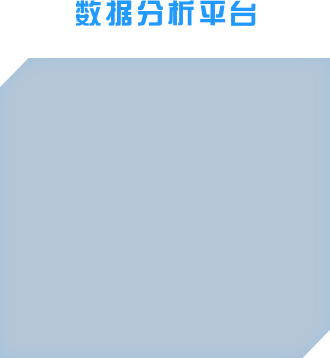
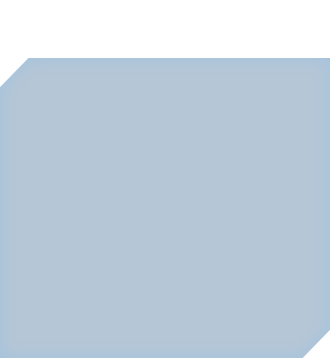
feat login page and remove useless picture

Changed region(s): [[0.2121, 0.0, 0.7879, 0.0922]]

diff --git a/src/views/Login.vue b/src/views/Login.vue
@@ -1,12 +1,56 @@
 <template>
-  <div class="login-wrap">
+  <div class="login">
+    <main class="num_rain"></main>
+    <!-- <div class="login-wrap">
+      <div class="ms-login">
+        <el-form
+          class="ms-content"
+          ref="ruleForm"
+          label-width="0px"
+          :model="ruleForm"
+          :rules="rules"
+        >
+          <div class="inputBox">
+            <img src="@/assets/img/login_account_icon.png" alt />
+            <el-form-item prop="username">
+              <div class="custom-input el-input el-input--small">
+                <input
+                  type="text"
+                  autocomplete="off"
+                  v-model="ruleForm.username"
+                  placeholder="请输入用户名"
+                  class="el-input__inner"
+                />
+              </div>
+            </el-form-item>
+          </div>
+          <div class="inputBox">
+            <img src="../assets/img/login_psd_icon.png" alt />
+            <el-form-item prop="password">
+              <div class="custom-input el-input el-input--small">
+                <input
+                  type="password"
+                  autocomplete="off"
+                  v-model="ruleForm.password"
+                  placeholder="请输入密码"
+                  class="el-input__inner"
+                  @keyup.enter="submitForm('ruleForm')"
+                />
+              </div>
+            </el-form-item>
+          </div>
+
+          <div class="login-btn">
+            <span @click="submitForm('ruleForm')">登录</span>
+          </div>
+        </el-form>
+      </div>
+    </div>-->
     <div class="ms-login">
-      <!-- <div class="ms-title">后台管理系统</div> -->
       <el-form class="ms-content" ref="ruleForm" label-width="0px" :model="ruleForm" :rules="rules">
         <div class="inputBox">
           <img src="@/assets/img/login_account_icon.png" alt />
           <el-form-item prop="username">
-            <!-- <el-input class="custom-input" v-model="ruleForm.username" placeholder="username" autocomplete="off"></el-input> -->
             <div class="custom-input el-input el-input--small">
               <input
                 type="text"
@@ -21,7 +65,6 @@
         <div class="inputBox">
           <img src="../assets/img/login_psd_icon.png" alt />
           <el-form-item prop="password">
-            <!-- <el-input class="custom-input" v-model="ruleForm.username" placeholder="username" autocomplete="off"></el-input> -->
             <div class="custom-input el-input el-input--small">
               <input
                 type="password"
@@ -34,15 +77,9 @@
             </div>
           </el-form-item>
         </div>
-        <!-- <el-input
-            type="password"
-            placeholder="password"
-            v-model="ruleForm.password"
-            @keyup.enter.native="submitForm('ruleForm')"
-        ></el-input>-->
+
         <div class="login-btn">
           <span @click="submitForm('ruleForm')">登录</span>
-          <!-- <el-button type="primary" @click="submitForm('ruleForm')">登录</el-button> -->
         </div>
       </el-form>
     </div>
@@ -87,25 +124,145 @@ export default {
       });
     }
   },
-  mounted() {}
+  mounted() {
+    function r(from, to) {
+      return ~~(Math.random() * (to - from + 1) + from);
+    }
+    function pick() {
+      return arguments[r(0, arguments.length - 1)];
+    }
+    function getChar() {
+      return String.fromCharCode(
+        pick(r(0x3041, 0x30ff), r(0x2000, 0x206f), r(0x0020, 0x003f))
+      );
+    }
+    function loop(fn, delay) {
+      let stamp = Date.now();
+      function _loop() {
+        if (Date.now() - stamp >= delay) {
+          fn();
+          stamp = Date.now();
+        }
+        requestAnimationFrame(_loop);
+      }
+      requestAnimationFrame(_loop);
+    }
+    class Char {
+      constructor() {
+        this.element = document.createElement("span");
+        this.mutate();
+      }
+      mutate() {
+        this.element.textContent = getChar();
+      }
+    }
+    class Trail {
+      constructor(list = [], options) {
+        this.list = list;
+        this.options = Object.assign({ size: 10, offset: 0 }, options);
+        this.body = [];
+        this.move();
+      }
+      traverse(fn) {
+        this.body.forEach((n, i) => {
+          let last = i == this.body.length - 1;
+          if (n) fn(n, i, last);
+        });
+      }
+      move() {
+        this.body = [];
+        let { offset, size } = this.options;
+        for (let i = 0; i < size; ++i) {
+          let item = this.list[offset + i - size + 1];
+          this.body.push(item);
+        }
+        this.options.offset = (offset + 1) % (this.list.length + size - 1);
+      }
+    }
+    class Rain {
+      constructor({ target, row }) {
+        this.element = document.createElement("p");
+        this.build(row);
+        if (target) {
+          target.appendChild(this.element);
+        }
+        this.drop();
+      }
+      build(row = 20) {
+        let root = document.createDocumentFragment();
+        let chars = [];
+        for (let i = 0; i < row; ++i) {
+          let c = new Char();
+          root.appendChild(c.element);
+          chars.push(c);
+          if (Math.random() < 0.5) {
+            loop(() => c.mutate(), r(1e3, 5e3));
+          }
+        }
+        this.trail = new Trail(chars, {
+          size: r(10, 30),
+          offset: r(0, 100)
+        });
+        this.element.appendChild(root);
+      }
+      drop() {
+        let trail = this.trail;
+        let len = trail.body.length;
+        let delay = r(10, 100);
+        loop(() => {
+          trail.move();
+          trail.traverse((c, i, last) => {
+            c.element.style = `
+          color: hsl(136, 100%, ${(85 / len) * (i + 1)}%)
+        `;
+            if (last) {
+              c.mutate();
+              c.element.style = `
+            color: hsl(136, 100%, 85%);
+            text-shadow:
+              0 0 .5em #fff,
+              0 0 .5em currentColor;
+          `;
+            }
+          });
+        }, delay);
+      }
+    }
+
+    const main = document.querySelector("main");
+    for (let i = 0; i < 50; ++i) {
+      new Rain({ target: main, row: 50 });
+    }
+  }
 };
 </script>
 
 <style scoped>
-.login-wrap {
-  position: relative;
-  width: 100%;
+.login {
   height: 100%;
-  background-image: url(../assets/img/login_bg.png);
-  background-size: 100%;
+  align-items: center;
+  justify-content: center;
+  background: #000;
 }
-.ms-title {
-  width: 100%;
-  line-height: 50px;
+.num_rain {
+  display: flex !important;
+  height: 100%;
+  align-items: center;
+  justify-content: center;
+  background: #000;
+}
+.login .num_rain >>> p {
+  line-height: 1;
+  height: 100%;
+}
+.login .num_rain >>> span {
+  display: block;
+  width: 2vmax;
+  height: 2vmax;
+  font-size: 2vmax;
+  color: #9bff9b11;
   text-align: center;
-  font-size: 20px;
-  color: #fff;
-  border-bottom: 1px solid #ddd;
+  font-family: "Helvetica Neue", Helvetica, sans-serif;
 }
 .ms-login {
   position: absolute;
